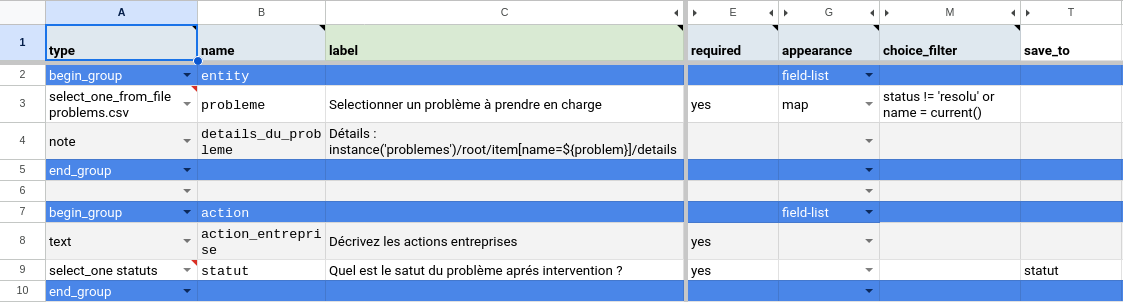
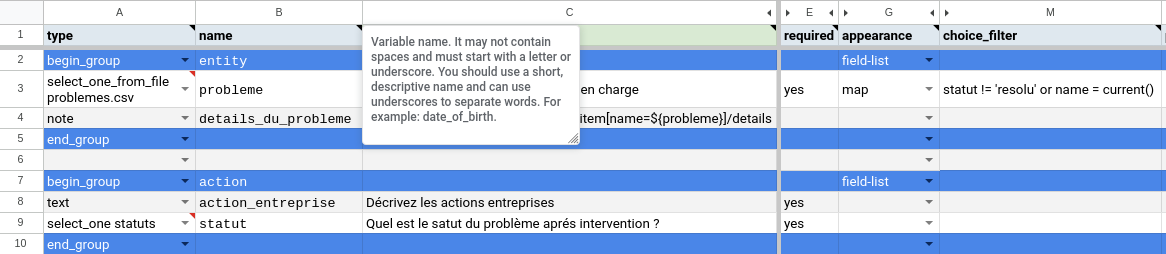
correction des capture d'écrans et choice_filter current()/.

diff --git a/docs/translations/fr/tutoriel-signalement-problemes.rst b/docs/translations/fr/tutoriel-signalement-problemes.rst
@@ -187,7 +187,7 @@ Faisons en sorte que le statut d'une Entité de la liste ``problemes`` soit mis 
 
    .. note::
    	   
-   	 Utiliser un filtre comme celui-ci signifie qu'il ne sera pas possible de modifier les soumissions sur le serveur, car l'entité sélectionnée qui a été résolue dans cette soumission sera filtrée lors de la modification. Dans de nombreux flux de travail basés sur les entités, les modifications des soumissions ne sont pas utiles et peuvent être évitées. Dans ce workflow, vous pouvez les autoriser en changeant le "choice_filter" en `statut != 'resolu' or name = current()`.
+   	 Utiliser un filtre comme celui-ci signifie qu'il ne sera pas possible de modifier les soumissions sur le serveur, car l'entité sélectionnée qui a été résolue dans cette soumission sera filtrée lors de la modification. Dans de nombreux flux de travail basés sur les entités, les modifications des soumissions ne sont pas utiles et peuvent être évitées. Dans ce workflow, vous pouvez les autoriser en changeant le "choice_filter" en `statut != 'resolu' or name = current()/.`.
 
 #. Corrigez tous les problèmes identifiés lors de la conversion du formulaire puis publiez le. Les mises à jour d'entités ne fonctionnent actuellement qu'avec les formulaires publiés (pas les ébauches), comme les création d'Entités.
 
